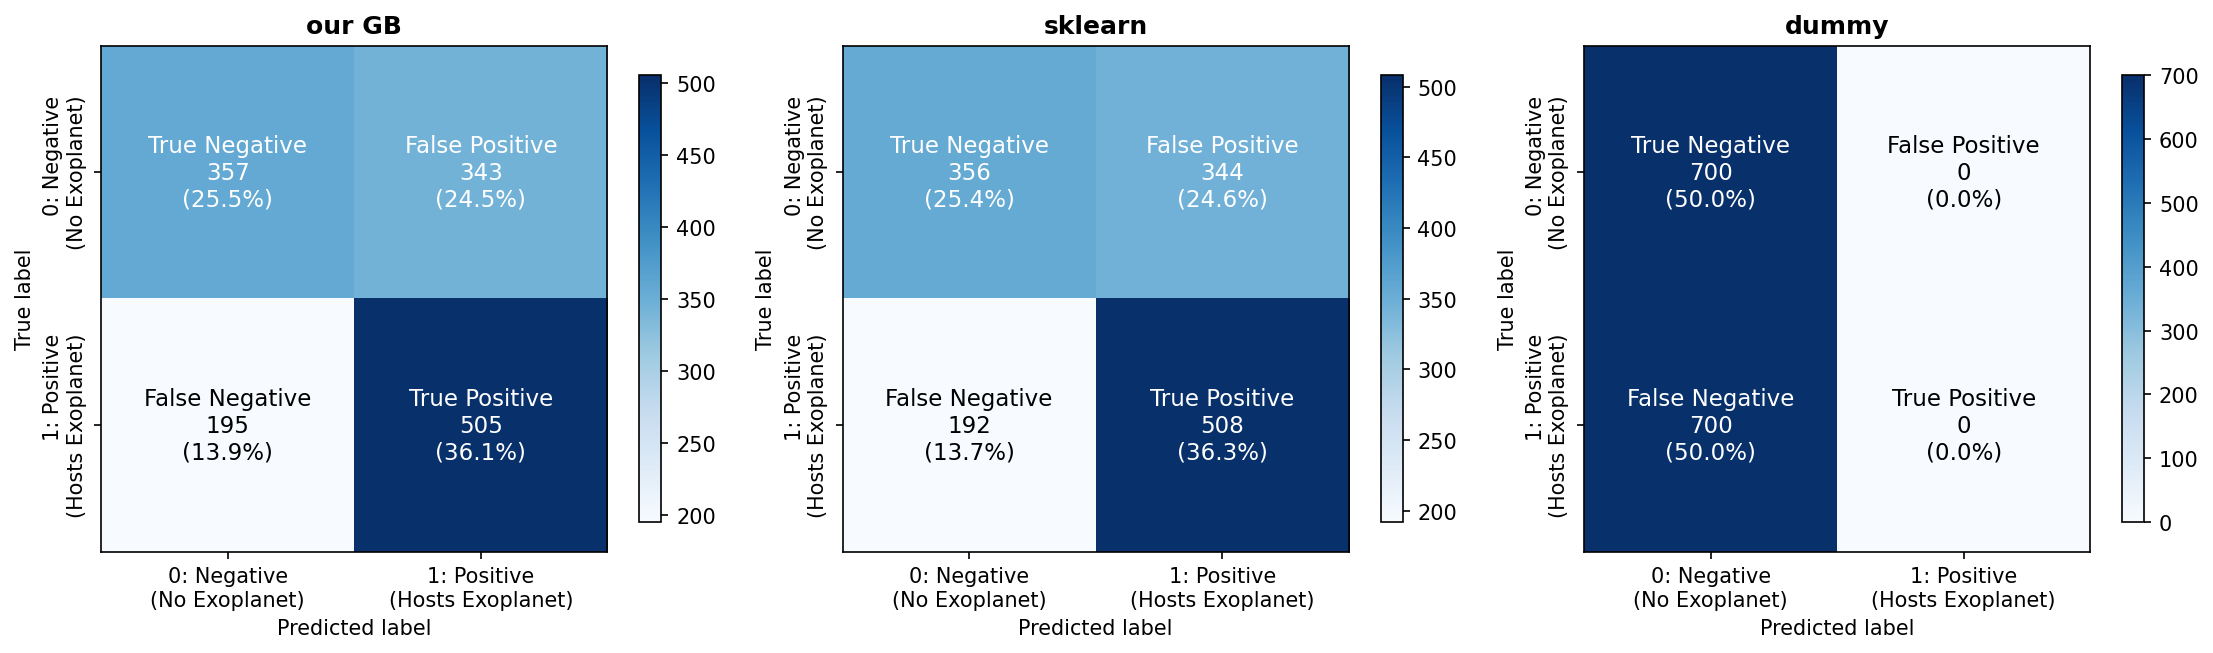
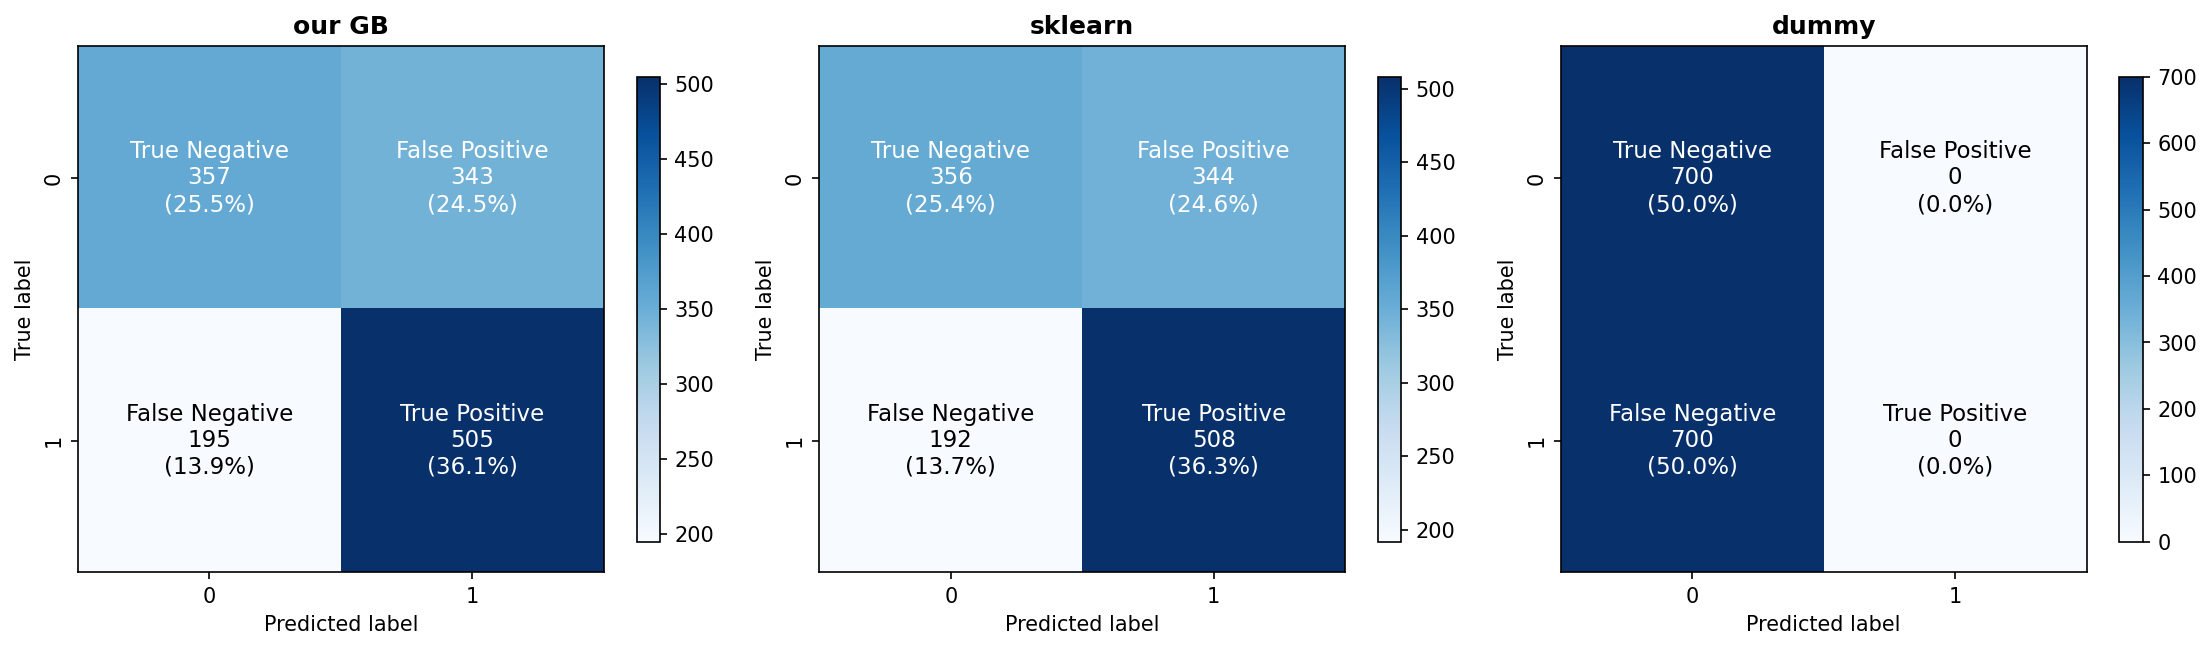
restructured the file structure so update the file reading path for corresponding files

diff --git a/src/build_dataset.py b/src/build_dataset.py
@@ -1,0 +1,90 @@
+"""Builds the class-balanced training set: labels Kepler stars from the KOI catalog, 
+downloads each star's light curve, and writes extracted features to data/features.csv."""
+from pathlib import Path
+import pandas as pd
+import lightkurve as lk
+from src.light_curve import extract_features
+
+#resolve data paths relative to the repo root so the script works from any cwd
+DATA_DIR = Path(__file__).resolve().parents[1] / "data"
+
+#Equal stars per class (hosts exoplanet / no exoplanet) so the model does not bias toward the majority.
+#The KOI table has ~9,564 rows, but fewer unique stars after dedup + class split.
+#3500 still takes some time to download but we can raise it if needed.
+STARS_PER_GROUP = 3500
+OUTPUT_FILE = DATA_DIR / "features.csv"
+
+def get_star_labels():
+    """
+    Read the KOI table and assigns a ground truth label for each star.
+
+    A star is labeled 1 (hosts an exoplanet) if any of its KOIs are CONFIRMED
+    or CANDIDATE, and 0 (no exoplanet) if all are FALSE POSITIVE. Rows with
+    unmapped dispositions are dropped before aggregation.
+    
+    Returns:
+        DataFrame with columns ["kepid", "label"] — one row per star, where label is 
+        1 or 0.
+    """
+    koi = pd.read_csv(DATA_DIR / "koi_cumulative.csv", comment="#")
+ 
+    koi["label"] = koi["koi_disposition"].map({
+        "CONFIRMED": 1,
+        "CANDIDATE": 1,
+        "FALSE POSITIVE": 0,
+    })
+    koi = koi.dropna(subset=["label"])
+ 
+    #one row per star (if a star has any planet, label it 1)
+    labels = koi.groupby("kepid")["label"].max().reset_index()
+    labels["label"] = labels["label"].astype(int)
+    return labels
+ 
+ 
+def pick_balanced_stars(labels, stars_per_group):
+    """
+    Sample an equal number of exoplanet hosting and no exoplanet stars (fixed random_state for 
+    reproducibility; otherwise every run picks a different subsets of stars).
+
+    Args:
+        labels: DataFrame with a "label" column.
+
+    Returns:
+        DataFrame with `stars_per_group` rows of each class (2 * stars_per_group total).
+    """
+    planets = labels[labels["label"] == 1].sample(stars_per_group, random_state=42)
+    no_planets = labels[labels["label"] == 0].sample(stars_per_group, random_state=42)
+    return pd.concat([planets, no_planets])
+ 
+ 
+def main():
+    labels = get_star_labels()
+    stars = pick_balanced_stars(labels, STARS_PER_GROUP)
+    print(f"processing {len(stars)} stars")
+ 
+    rows = []
+    for count, (_, star) in enumerate(stars.iterrows(), start=1):
+        kepid = int(star["kepid"])
+        label = int(star["label"])
+ 
+        try:
+            #download one quarter of data for this star
+            result = lk.search_lightcurve(f"KIC {kepid}", mission="Kepler", cadence="long")
+            lc = result[0].download()
+    
+            #turn the light curve into features, then add the label
+            features = extract_features(lc, kep_id=kepid)
+            #Stick the label onto the features dict
+            features["label"] = label 
+            rows.append(features)
+            print(f"  [{count}/{len(stars)}] OK   KIC {kepid}")
+ 
+        except Exception as error:
+            print(f"  [{count}/{len(stars)}] skip KIC {kepid}  ({error})")
+ 
+    pd.DataFrame(rows).to_csv(OUTPUT_FILE, index=False)
+    print(f"\nSaved {len(rows)} stars to {OUTPUT_FILE}")
+ 
+ 
+if __name__ == "__main__":
+    main()

diff --git a/src/light_curve.py b/src/light_curve.py
@@ -1,0 +1,59 @@
+"""Loads Kepler light curves from FITS files and extracts summary 
+flux-statistic features used to train the classifier."""
+import numpy as np
+import pandas as pd
+from astropy.io import fits
+
+def load_kepler_light_curve(fits_path):
+    """
+    Load a Kelper light curve from a FITS file. 
+    (Do we still need this? The dataset uses extract_features() and this 
+    function reads from FITS)
+    """
+    with fits.open(fits_path) as hdul:
+        data = hdul[1].data
+
+        df = pd.DataFrame({
+            "TIME": np.asarray(data["TIME"], dtype=float),
+            "FLUX": np.asarray(data["PDCSAP_FLUX"], dtype=float),
+            "FLUX_ERR": np.asarray(data["PDCSAP_FLUX_ERR"], dtype=float),
+            "QUALITY": np.asarray(data["SAP_QUALITY"], dtype=float),
+        })
+
+        kep_id = hdul[0].header.get("KEPLERID", None)
+
+    df = df[
+        (df["QUALITY"] == 0) &
+        (df["TIME"].notna()) &
+        (df["FLUX"].notna()) &
+        (df["FLUX_ERR"].notna())
+    ]
+    
+    return df, kep_id
+
+def extract_features(lc, kep_id=None):
+    """Extract features directly from a lightkurve LightCurve object."""
+    time = np.asarray(lc.time.value, dtype=float)
+    flux = np.asarray(lc.flux.value, dtype=float)
+    
+    good = ~np.isnan(time) & ~np.isnan(flux)
+    time = time[good]
+    flux = flux[good]
+
+    if len(flux) == 0:
+        return None
+
+    features = {
+        "kep_id": kep_id,
+        "num_points": len(flux),
+        "time_span": time.max() - time.min(),
+        "mean_flux": np.mean(flux),
+        "median_flux": np.median(flux),
+        "std_flux": np.std(flux),
+        "max_flux": np.max(flux),
+        "min_flux": np.min(flux),
+        "range_flux": np.max(flux) - np.min(flux)
+    }    
+
+    return features
+

diff --git a/RNN/build_time_series_dataset.py b/RNN/build_time_series_dataset.py
@@ -6,10 +6,13 @@ from scipy.stats import binned_statistic
 
 from pathlib import Path
 sys.path.append(str(Path(__file__).resolve().parent.parent))   #so that we can import from light_curve.py and build_dataset.py
-from build_dataset import pick_balanced_stars
+from src.build_dataset import pick_balanced_stars
+
+#resolve data paths relative to the repo root so the script works from any cwd                                
+DATA_DIR = Path(__file__).resolve().parents[1] / "data"
 
 STARS_PER_GROUP = 3500
-OUTPUT_FILE = "RNN/lc_features.csv"
+OUTPUT_FILE = DATA_DIR / "lc_features.csv"
 
 def get_star_labels():
     """
@@ -26,7 +29,7 @@ def get_star_labels():
         1 or 0.
     """
 
-    koi = pd.read_csv("koi_cumulative.csv", comment="#")
+    koi = pd.read_csv(DATA_DIR / "koi_cumulative.csv", comment="#")
 
     # koi.drop(koi[koi["koi_disposition"] == "CANDIDATE"].index, inplace=True) #drop candidates so we only have confirmed planets vs false positives
  
@@ -49,7 +52,7 @@ def getStuff():
         DataFrame with columns ["kepid", "koi_period", "koi_time0bk"] — one row per star, where kepid is the Kepler ID, 
         koi_period is the known period of the planet (from the KOI table), and koi_time0bk is the known time of first transit (from the KOI table).
     """
-    koi = pd.read_csv("koi_cumulative.csv", comment="#")
+    koi = pd.read_csv(DATA_DIR / "koi_cumulative.csv", comment="#")
 
     rows = []
     for _, row in koi.iterrows():
